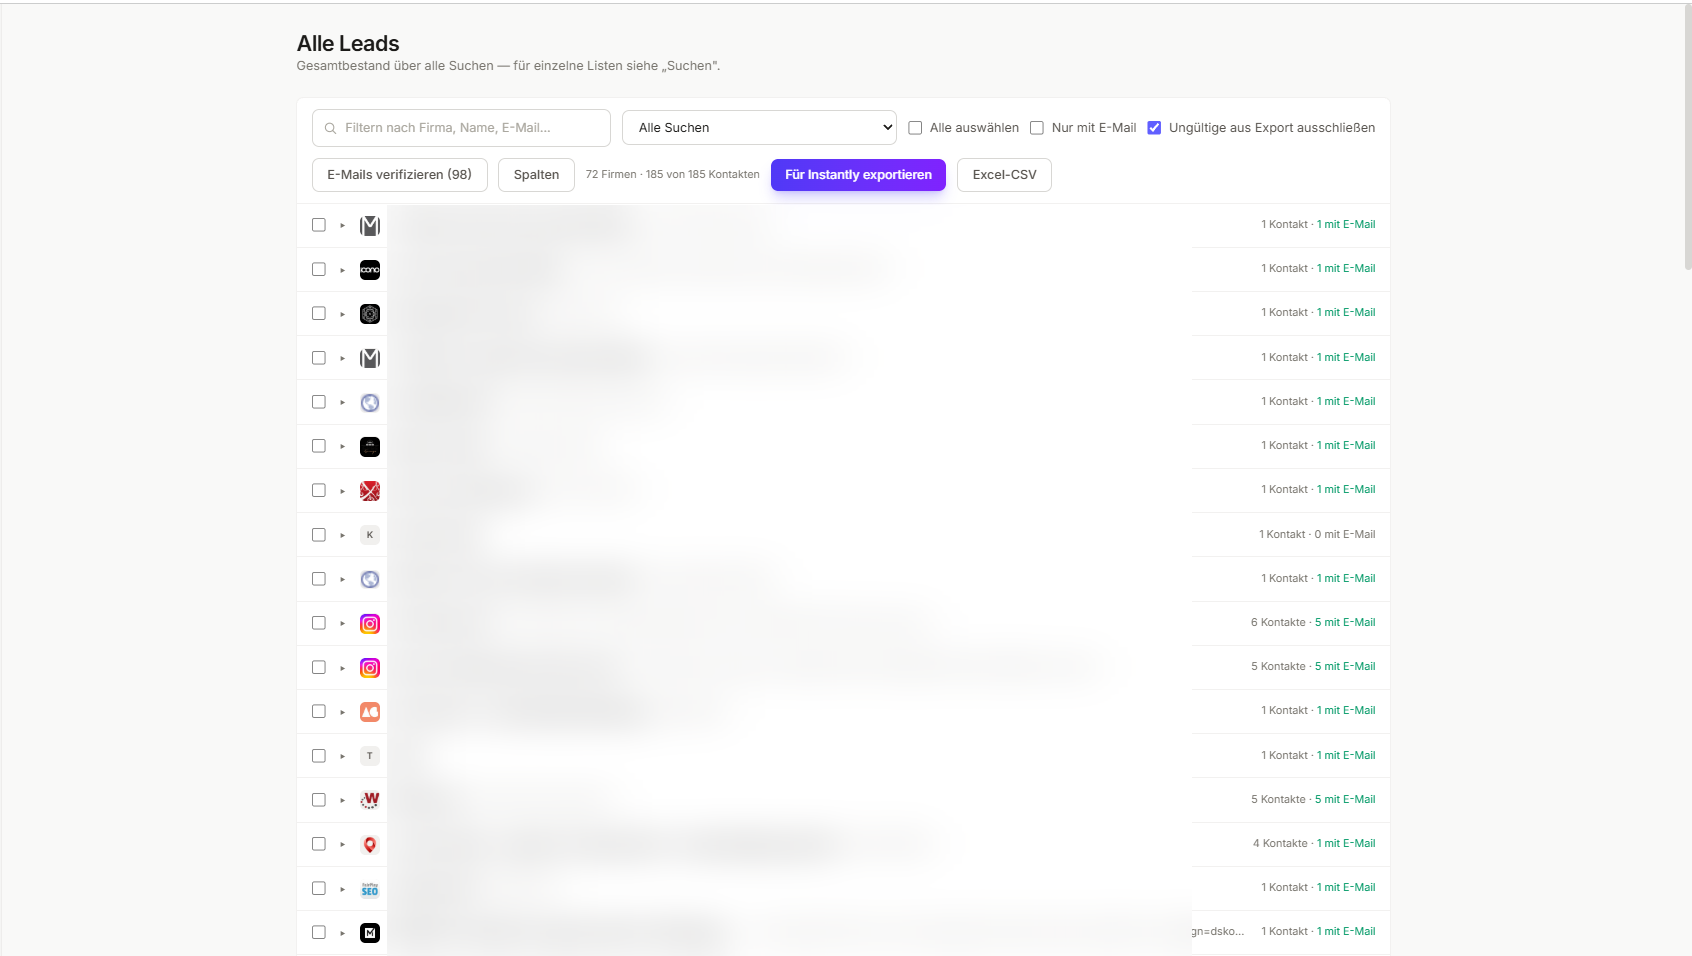
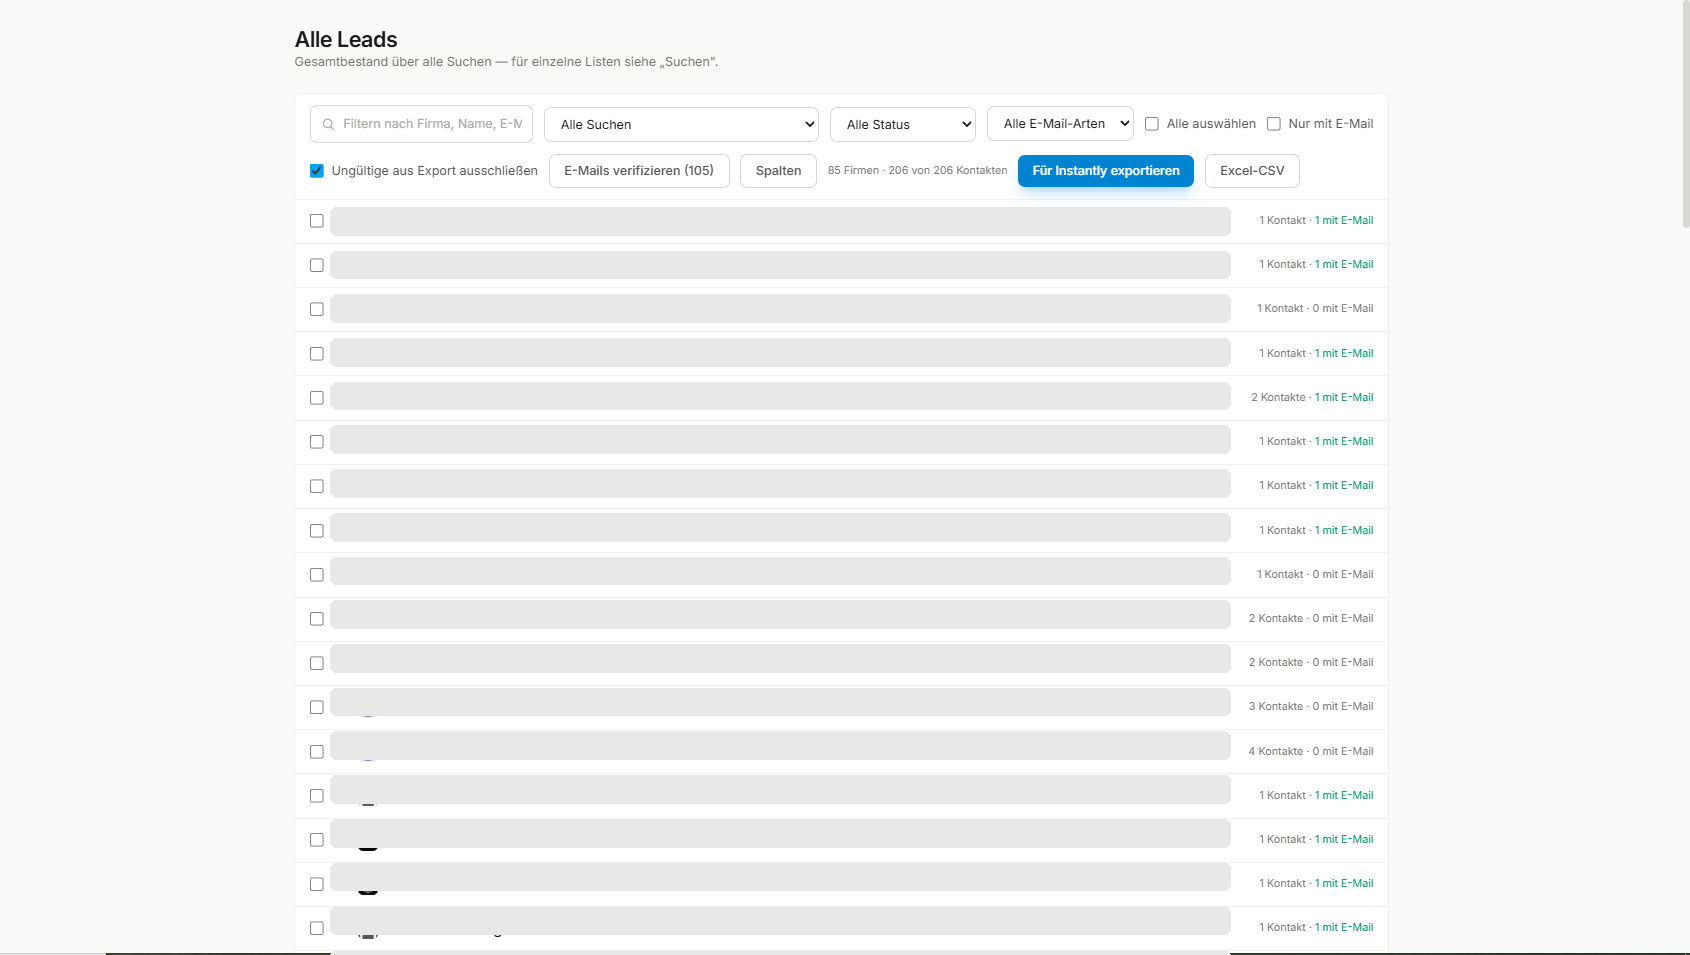
Echter Screenshot (anonymisiert), FAQ ueberarbeitet, neue Feature-Sektion
- public/screenshots/alle-leads.png durch echten App-Screenshot ersetzt
  (Alle-Leads-Tabelle), Firmennamen/Websites in den Zeilen per Skript
  geschwaerzt (DSGVO), Checkbox/Icon/Kontakt-Zahlen bleiben sichtbar,
  gleiche Optik wie vom User vorgegeben.
- FAQ: 'Woher kommen die Zahlen zum Skalierungspotenzial?' entfernt (Antwort
  stellte die App eher schlechter dar), dafuer drei neue, verkaufsstarke
  Fragen zu Sperrliste/Opt-out-Schutz, Zustellbarkeits-Check und nativer
  Kampagnen-/Sequenzverwaltung ergaenzt, DE+EN.
- Neue Sektion 'Was sonst noch mit drin steckt' zwischen USPs und Proof-Stat:
  drei Karten mit eigenen Mockups (SuppressionMockup, DeliverabilityMockup,
  CampaignMockup in _mockups.tsx, neue Icons in _icons.tsx) fuer Sperrliste,
  SPF/DKIM/DMARC-Check und native Kampagnen/Sequenzen, vertieft Themen die
  vorher nur beilaeufig erwaehnt waren.
- (Fix) DE-FAQ-Aenderung aus einem fehlgeschlagenen ersten Schreibversuch
  nachgeholt, war durch einen Python-Assertion-Fehler vor dem eigentlichen
  Schreiben abgebrochen.

Changed region(s): [[0.1846, 0.1215, 0.8308, 1.0], [0.1538, 0.0304, 0.4308, 0.0911], [0.9846, 0.2429, 1.0, 0.2733]]

diff --git a/app/_mockups.tsx b/app/_mockups.tsx
@@ -201,3 +201,102 @@ export function QualifiedLeadMockup() {
     </div>
   );
 }
+
+/**
+ * Drei kompakte Feature-Mockups fuer die "Was sonst noch mit drin steckt"-
+ * Sektion: Sperrliste, Zustellbarkeits-Check, Kampagnen/Sequenzen. Bewusst
+ * kleiner/einfacher als die grossen Hero-Mockups, laufen zu dritt in einem
+ * Grid nebeneinander.
+ */
+export function SuppressionMockup() {
+  const { t } = useT();
+  const m = t.suppressionMockup;
+  return (
+    <div className="rounded-2xl border border-edge/60 bg-panel p-6 shadow-sm">
+      <p className="text-xs font-medium uppercase tracking-wide text-faint">{m.label}</p>
+      <div className="mt-3 flex items-center gap-3 rounded-lg border border-edge2 bg-panel2 px-4 py-3 opacity-80">
+        <div className="flex h-9 w-9 shrink-0 items-center justify-center rounded-full bg-panel text-mute">
+          <svg viewBox="0 0 24 24" fill="none" className="h-4 w-4">
+            <path d="M12 2 3 6v6c0 5 3.8 8.7 9 10 5.2-1.3 9-5 9-10V6l-9-4Z" stroke="currentColor" strokeWidth="1.6" strokeLinejoin="round" />
+            <path d="M9 9l6 6M15 9l-6 6" stroke="currentColor" strokeWidth="1.6" strokeLinecap="round" />
+          </svg>
+        </div>
+        <div className="min-w-0 flex-1">
+          <p className="truncate text-sm font-medium text-ink line-through decoration-mute">{m.blocked.name} · {m.blocked.company}</p>
+          <p className="text-xs text-mute">{m.blocked.note}</p>
+        </div>
+      </div>
+      <span className="mt-2 inline-block rounded-full bg-sky-500/10 px-2.5 py-1 text-[10px] font-medium text-sky-600 dark:text-sky-300">
+        {m.blockedTag}
+      </span>
+      <div className="mt-4 flex items-center gap-3 rounded-lg bg-panel2 px-4 py-3">
+        <p className="text-2xl font-semibold text-ink">{m.count}</p>
+        <p className="text-xs text-soft">{m.countLabel}</p>
+      </div>
+    </div>
+  );
+}
+
+export function DeliverabilityMockup() {
+  const { t } = useT();
+  const m = t.deliverabilityMockup;
+  const rows = [
+    { label: m.spf, ok: true },
+    { label: m.dkim, ok: true },
+    { label: m.dmarc, ok: false },
+  ];
+  return (
+    <div className="rounded-2xl border border-edge/60 bg-panel p-6 shadow-sm">
+      <p className="text-xs font-medium uppercase tracking-wide text-faint">{m.domainLabel}</p>
+      <p className="mt-1 text-sm font-medium text-ink">{m.domain}</p>
+      <div className="mt-3 space-y-2">
+        {rows.map((r) => (
+          <div key={r.label} className="flex items-center justify-between rounded-lg bg-panel2 px-3 py-2 text-sm">
+            <span className="text-soft">{r.label}</span>
+            <span className={"flex items-center gap-1.5 text-xs font-medium " + (r.ok ? "text-emerald-600 dark:text-emerald-300" : "text-amber-600 dark:text-amber-300")}>
+              {r.ok ? (
+                <svg viewBox="0 0 24 24" fill="none" className="h-3.5 w-3.5"><path d="m5 13 4 4L19 7" stroke="currentColor" strokeWidth="2.5" strokeLinecap="round" strokeLinejoin="round" /></svg>
+              ) : (
+                <svg viewBox="0 0 24 24" fill="none" className="h-3.5 w-3.5"><path d="M12 9v4M12 16.5h.01" stroke="currentColor" strokeWidth="2.2" strokeLinecap="round" /><circle cx="12" cy="12" r="9" stroke="currentColor" strokeWidth="1.6" /></svg>
+              )}
+              {r.ok ? m.configured : m.missing}
+            </span>
+          </div>
+        ))}
+      </div>
+      <p className="mt-4 text-xs font-medium uppercase tracking-wide text-faint">{m.volumeLabel}</p>
+      <div className="mt-2 h-2 overflow-hidden rounded-full bg-panel2">
+        <div className="h-full w-[84%] rounded-full bg-sky-500" />
+      </div>
+      <p className="mt-1.5 text-xs text-mute">{m.volumeNote}</p>
+    </div>
+  );
+}
+
+export function CampaignMockup() {
+  const { t } = useT();
+  const m = t.campaignMockup;
+  return (
+    <div className="rounded-2xl border border-edge/60 bg-panel p-6 shadow-sm">
+      <div className="flex items-center justify-between">
+        <p className="text-xs font-medium uppercase tracking-wide text-faint">{m.label}</p>
+        <span className="flex items-center gap-1.5 rounded-full bg-emerald-500/10 px-2.5 py-1 text-[10px] font-medium text-emerald-600 dark:text-emerald-300">
+          <span className="h-1.5 w-1.5 rounded-full bg-emerald-500" />
+          {m.activeLabel}
+        </span>
+      </div>
+      <div className="relative mt-4 space-y-4 pl-5">
+        <div className="absolute bottom-2 left-[7px] top-2 w-px bg-edge2" />
+        {m.steps.map((s) => (
+          <div key={s.title} className="relative flex items-start gap-3">
+            <span className="absolute -left-5 top-1 h-3.5 w-3.5 rounded-full border-2 border-sky-500 bg-panel" />
+            <div>
+              <p className="text-[11px] font-medium uppercase tracking-wide text-mute">{s.day}</p>
+              <p className="text-sm font-medium text-ink">{s.title}</p>
+            </div>
+          </div>
+        ))}
+      </div>
+    </div>
+  );
+}

diff --git a/app/dict.ts b/app/dict.ts
@@ -226,6 +226,42 @@ const de = {
       { title: "Fertige Branchen-Playbooks statt eigenem Trial-and-Error", body: "Vorgefertigte Kombinationen aus Suchkriterien, Pain-Point-Filter und Personalisierungs-Hinweis für gängige Nischen, etwa Restaurants ohne aktuelle Website oder Handwerksbetriebe ohne Terminbuchung. Ein Klick statt tagelangem Herumprobieren mit Suchbegriffen." },
     ],
   },
+  features: {
+    eyebrow: "Mehr als nur Leads finden",
+    title: "Was sonst noch mit drin steckt",
+    items: [
+      { id: "suppression", title: "Bestandskunden und Opt-outs bleiben geschützt", body: "Einmal auf der Sperrliste, für immer ausgeschlossen: Frostbreaker prüft automatisch dagegen, bevor irgendjemand angeschrieben wird, egal ob neue Suche oder neue Kampagne." },
+      { id: "deliverability", title: "Zustellbarkeit prüfen, bevor es zum Problem wird", body: "SPF, DKIM und DMARC eurer Sende-Domain live per DNS geprüft, in Klartext erklärt, dazu eine Warnung bei riskant hohem Tagesvolumen pro Postfach." },
+      { id: "campaigns", title: "Kampagnen und Sequenzen direkt im Tool", body: "Sequenz, Zeitplan, Anzahl der Follow-ups und Aktivierung, alles nativ in Frostbreaker, an Instantly angebunden. Kein Tool-Wechsel, kein CSV-Export." },
+    ],
+  },
+  suppressionMockup: {
+    label: "Automatisch geprüft, bevor versendet wird",
+    blocked: { name: "Maria Fenninger", company: "Café Feinkost", note: "bereits Kunde" },
+    blockedTag: "Automatisch übersprungen",
+    countLabel: "Kontakte auf der Sperrliste",
+    count: "312",
+  },
+  deliverabilityMockup: {
+    domainLabel: "Sende-Domain",
+    domain: "eure-agentur-domain.de",
+    spf: "SPF",
+    dkim: "DKIM",
+    dmarc: "DMARC",
+    configured: "konfiguriert",
+    missing: "fehlt noch",
+    volumeLabel: "Tagesvolumen pro Postfach",
+    volumeNote: "42 von 50, im sicheren Bereich",
+  },
+  campaignMockup: {
+    label: "Sequenz",
+    steps: [
+      { day: "Tag 0", title: "Icebreaker-Mail" },
+      { day: "Tag 3", title: "Follow-up 1" },
+      { day: "Tag 7", title: "Follow-up 2, Break-up" },
+    ],
+    activeLabel: "Aktiv",
+  },
   trustBadges: [
     { id: "euHosting", title: "EU-Hosting", body: "Server in Frankfurt, keine Datenübertragung außerhalb der EU." },
     { id: "encryption", title: "Verschlüsselte API-Keys", body: "Eure Zugangsdaten werden verschlüsselt gespeichert, nie im Klartext." },
@@ -333,8 +369,10 @@ const de = {
       { q: "Woher weiß ich, dass eine gefundene E-Mail wirklich zu einer Person gehört?", a: "Frostbreaker filtert generische Adressen wie info@ oder office@ automatisch heraus. Nur E-Mails, die eindeutig einer Person zugeordnet sind, landen in eurer Leads-Liste." },
       { q: "Brauche ich eigene API-Keys? Ist das kompliziert?", a: "Einmal in den Einstellungen hinterlegt, läuft alles automatisch. In der kostenlosen Testphase führt euch die App Schritt für Schritt durch das Setup." },
       { q: "Wie unterscheidet sich das von Apollo/Hunter/Instantly?", a: "Die machen jeweils einen Teil des Workflows gut, mischen dabei aber meist personenbezogene und generische Adressen. Frostbreaker verbindet Suche, Anreicherung, Verifizierung und Personalisierung, filtert dabei automatisch auf echte Ansprechpartner, und bleibt auch nach dem Versand im Bild: Antworten lassen sich direkt in der App beantworten, das Dashboard zeigt gebuchte Meetings und Pipeline-Wert, nicht nur Öffnungsraten." },
+      { q: "Was passiert, wenn ich aus Versehen einen Bestandskunden oder jemanden anschreibe, der sich abgemeldet hat?", a: "Genau dafür gibt es die eingebaute Sperrliste: einmal eingetragen, schließt Frostbreaker diese Kontakte und Domains automatisch aus jeder zukünftigen Suche und jedem Versand aus, ganz ohne dass ihr das bei jeder Kampagne manuell prüfen müsst. Bestandskunden und Opt-outs bleiben zuverlässig geschützt." },
+      { q: "Kann ich prüfen, ob meine Versand-Domain überhaupt zustellfähig ist?", a: "Ja, direkt in der App: Frostbreaker prüft SPF, DKIM und DMARC eurer Sende-Domain per Live-DNS-Abfrage und zeigt in Klartext, was noch fehlt, dazu eine Warnung, wenn das Tagesvolumen pro Postfach riskant hoch wird. Kein separates Zustellbarkeits-Tool nötig." },
+      { q: "Muss ich meine E-Mail-Kampagnen und Sequenzen in einem separaten Tool bauen?", a: "Nein. Kampagnen, Sequenzen inklusive Zeitplan und Anzahl der Follow-ups, und die Aktivierung laufen direkt in Frostbreaker, nativ an Instantly angebunden. Ihr wechselt für den Versand nicht in ein zweites Tool und müsst nichts per CSV hin- und herschieben." },
       { q: "Wie schnell bin ich startklar?", a: "Ihr bucht ein 30-minütiges Gespräch, wir schauen uns gemeinsam an, wie ihr Frostbreaker für eure Ziele am effektivsten nutzt, und schalten danach euren Account frei. Ab dann: API-Keys eintragen, erste Suche starten, direkt in der App." },
-      { q: "Woher kommen die Zahlen zum Skalierungspotenzial?", a: "Aus einer offen gelegten Beispielrechnung, nicht aus einer Zusicherung: Versandkapazität nach Instantly-Hypergrowth-Plan, Recherchezeit und Antwortquote nach branchenüblichen Annahmen. Die Rechnung samt Annahmen steht direkt neben den Zahlen." },
       { q: "Was passiert mit meinen Daten, wenn ich kündige?", a: "Eure Daten werden nach Vertragsende gelöscht oder auf Wunsch zurückgegeben, geregelt im AVV. Es gibt keine automatische Weiternutzung nach Kündigung." },
     ],
   },
@@ -594,6 +632,42 @@ const en: typeof de = {
       { title: "Ready-made industry playbooks instead of your own trial and error", body: "Pre-built combinations of search criteria, pain-point filters and personalization hints for common niches, such as restaurants without a current website or trades businesses without online booking. One click instead of days of trial and error with search terms." },
     ],
   },
+  features: {
+    eyebrow: "More than just finding leads",
+    title: "What else is built in",
+    items: [
+      { id: "suppression", title: "Existing customers and opt-outs stay protected", body: "Add someone to the suppression list once, and they're excluded for good: Frostbreaker automatically checks against it before anyone gets contacted, whether from a new search or a new campaign." },
+      { id: "deliverability", title: "Check deliverability before it becomes a problem", body: "SPF, DKIM and DMARC for your sending domain, checked live via DNS and explained in plain language, plus a warning if your daily volume per mailbox gets risky." },
+      { id: "campaigns", title: "Campaigns and sequences right in the tool", body: "Sequence, schedule, number of follow-ups and activation, all natively in Frostbreaker, connected to Instantly. No switching tools, no CSV export." },
+    ],
+  },
+  suppressionMockup: {
+    label: "Automatically checked before sending",
+    blocked: { name: "Maria Fenninger", company: "Café Feinkost", note: "already a customer" },
+    blockedTag: "Automatically skipped",
+    countLabel: "contacts on the suppression list",
+    count: "312",
+  },
+  deliverabilityMockup: {
+    domainLabel: "Sending domain",
+    domain: "your-agency-domain.com",
+    spf: "SPF",
+    dkim: "DKIM",
+    dmarc: "DMARC",
+    configured: "configured",
+    missing: "still missing",
+    volumeLabel: "Daily volume per mailbox",
+    volumeNote: "42 of 50, within the safe range",
+  },
+  campaignMockup: {
+    label: "Sequence",
+    steps: [
+      { day: "Day 0", title: "Icebreaker email" },
+      { day: "Day 3", title: "Follow-up 1" },
+      { day: "Day 7", title: "Follow-up 2, break-up" },
+    ],
+    activeLabel: "Active",
+  },
   trustBadges: [
     { id: "euHosting", title: "EU hosting", body: "Servers in Frankfurt, no data transfer outside the EU." },
     { id: "encryption", title: "Encrypted API keys", body: "Your credentials are stored encrypted, never in plain text." },
@@ -701,8 +775,10 @@ const en: typeof de = {
       { q: "How do I know a found email really belongs to a person?", a: "Frostbreaker automatically filters out generic addresses like info@ or office@. Only emails clearly assigned to a person make it into your leads list." },
       { q: "Do I need my own API keys? Is that complicated?", a: "Once entered in settings, everything runs automatically. During the free trial, the app walks you through setup step by step." },
       { q: "How is this different from Apollo/Hunter/Instantly?", a: "They each do part of the workflow well, but usually mix personal and generic addresses. Frostbreaker connects search, enrichment, verification and personalization, automatically filtering for real decision-makers, and stays in the loop after sending too: replies can be answered directly in the app, and the dashboard shows booked meetings and pipeline value, not just open rates." },
+      { q: "What happens if I accidentally email an existing customer or someone who's opted out?", a: "That's exactly what the built-in suppression list is for: once added, Frostbreaker automatically excludes those contacts and domains from every future search and send, no manual checking required for every campaign. Existing customers and opt-outs stay reliably protected." },
+      { q: "Can I check whether my sending domain is actually deliverable?", a: "Yes, directly in the app: Frostbreaker checks SPF, DKIM and DMARC for your sending domain via a live DNS lookup and shows in plain language what's still missing, plus a warning if your daily volume per mailbox gets risky. No separate deliverability tool needed." },
+      { q: "Do I need to build my email campaigns and sequences in a separate tool?", a: "No. Campaigns, sequences including schedule and number of follow-ups, and activation all happen directly in Frostbreaker, natively connected to Instantly. You don't switch to a second tool to send, and there's no CSV shuffling." },
       { q: "How fast can I get started?", a: "You book a 30-minute call, we look together at how to get the most out of Frostbreaker for your goals, and unlock your account afterwards. From there: add your API keys, start your first search, directly in the app." },
-      { q: "Where do the scaling potential numbers come from?", a: "From an openly disclosed example calculation, not a promise: sending capacity based on the Instantly Hypergrowth plan, research time and reply rate based on industry-typical assumptions. The calculation and its assumptions are shown right next to the numbers." },
       { q: "What happens to my data if I cancel?", a: "Your data is deleted after the contract ends, or returned on request, as governed by the DPA. There's no automatic continued use after cancellation." },
     ],
   },

diff --git a/app/page.tsx b/app/page.tsx
@@ -1,10 +1,10 @@
 "use client";
 import { Logo, CTAButton, CTAGroup, NavDropdown, Screenshot, SectionHeading, FactBox, StatTile } from "./_ui";
-import { AgencyMockup, PostSendMockup, LocalReachMockup, QualifiedLeadMockup } from "./_mockups";
+import { AgencyMockup, PostSendMockup, LocalReachMockup, QualifiedLeadMockup, SuppressionMockup, DeliverabilityMockup, CampaignMockup } from "./_mockups";
 import { LeadCardStack } from "./_illustration";
 import { SavingsCalculator } from "./_calculator";
 import { Reveal } from "./reveal";
-import { pillarIcons, trustIcons, postSendIcons, agencyIcons, workflowIcons } from "./_icons";
+import { pillarIcons, trustIcons, postSendIcons, agencyIcons, workflowIcons, featureIcons } from "./_icons";
 import { useT, LanguageToggle } from "./language-provider";
 
 export default function Home() {
@@ -339,6 +339,29 @@ export default function Home() {
               {u.fact && <FactBox fact={u.fact} sub={u.sub} source={u.source!} />}
             </div>
           ))}
+        </div>
+      </section>
+
+      {/* Weitere Features: Sperrliste, Zustellbarkeit, Kampagnen */}
+      <section className="border-y border-edge/60 bg-panel2">
+        <div className="mx-auto max-w-6xl px-4 py-20 sm:px-6">
+          <SectionHeading eyebrow={t.features.eyebrow} title={t.features.title} />
+          <div className="grid gap-8 sm:grid-cols-3">
+            {t.features.items.map((f, i) => (
+              <Reveal key={f.id} delay={i * 80}>
+                <div className="flex h-11 w-11 items-center justify-center rounded-lg bg-sky-500/10 text-sky-600 dark:text-sky-400">
+                  {featureIcons[f.id]}
+                </div>
+                <h3 className="mt-4 text-sm font-semibold text-ink">{f.title}</h3>
+                <p className="mt-1.5 text-sm leading-relaxed text-soft">{f.body}</p>
+                <div className="mt-5">
+                  {f.id === "suppression" && <SuppressionMockup />}
+                  {f.id === "deliverability" && <DeliverabilityMockup />}
+                  {f.id === "campaigns" && <CampaignMockup />}
+                </div>
+              </Reveal>
+            ))}
+          </div>
         </div>
       </section>
 

diff --git a/app/_icons.tsx b/app/_icons.tsx
@@ -131,3 +131,26 @@ export const agencyIcons: Record<string, React.ReactNode> = {
     </svg>
   ),
 };
+
+export const featureIcons: Record<string, React.ReactNode> = {
+  suppression: (
+    <svg viewBox="0 0 24 24" fill="none" className="h-6 w-6">
+      <path d="M12 2 3 6v6c0 5 3.8 8.7 9 10 5.2-1.3 9-5 9-10V6l-9-4Z" stroke="currentColor" strokeWidth="1.6" strokeLinejoin="round" />
+      <path d="M9 9l6 6M15 9l-6 6" stroke="currentColor" strokeWidth="1.6" strokeLinecap="round" />
+    </svg>
+  ),
+  deliverability: (
+    <svg viewBox="0 0 24 24" fill="none" className="h-6 w-6">
+      <path d="M12 2 3 6v6c0 5 3.8 8.7 9 10 5.2-1.3 9-5 9-10V6l-9-4Z" stroke="currentColor" strokeWidth="1.6" strokeLinejoin="round" />
+      <path d="m8.5 12.5 2.3 2.3L16 9.5" stroke="currentColor" strokeWidth="1.6" strokeLinecap="round" strokeLinejoin="round" />
+    </svg>
+  ),
+  campaigns: (
+    <svg viewBox="0 0 24 24" fill="none" className="h-6 w-6">
+      <circle cx="5.5" cy="7" r="2" stroke="currentColor" strokeWidth="1.6" />
+      <circle cx="12" cy="12" r="2" stroke="currentColor" strokeWidth="1.6" />
+      <circle cx="18.5" cy="17" r="2" stroke="currentColor" strokeWidth="1.6" />
+      <path d="M7 8.3 10.5 10.7M13.5 13.3 17 15.7" stroke="currentColor" strokeWidth="1.6" strokeLinecap="round" />
+    </svg>
+  ),
+};